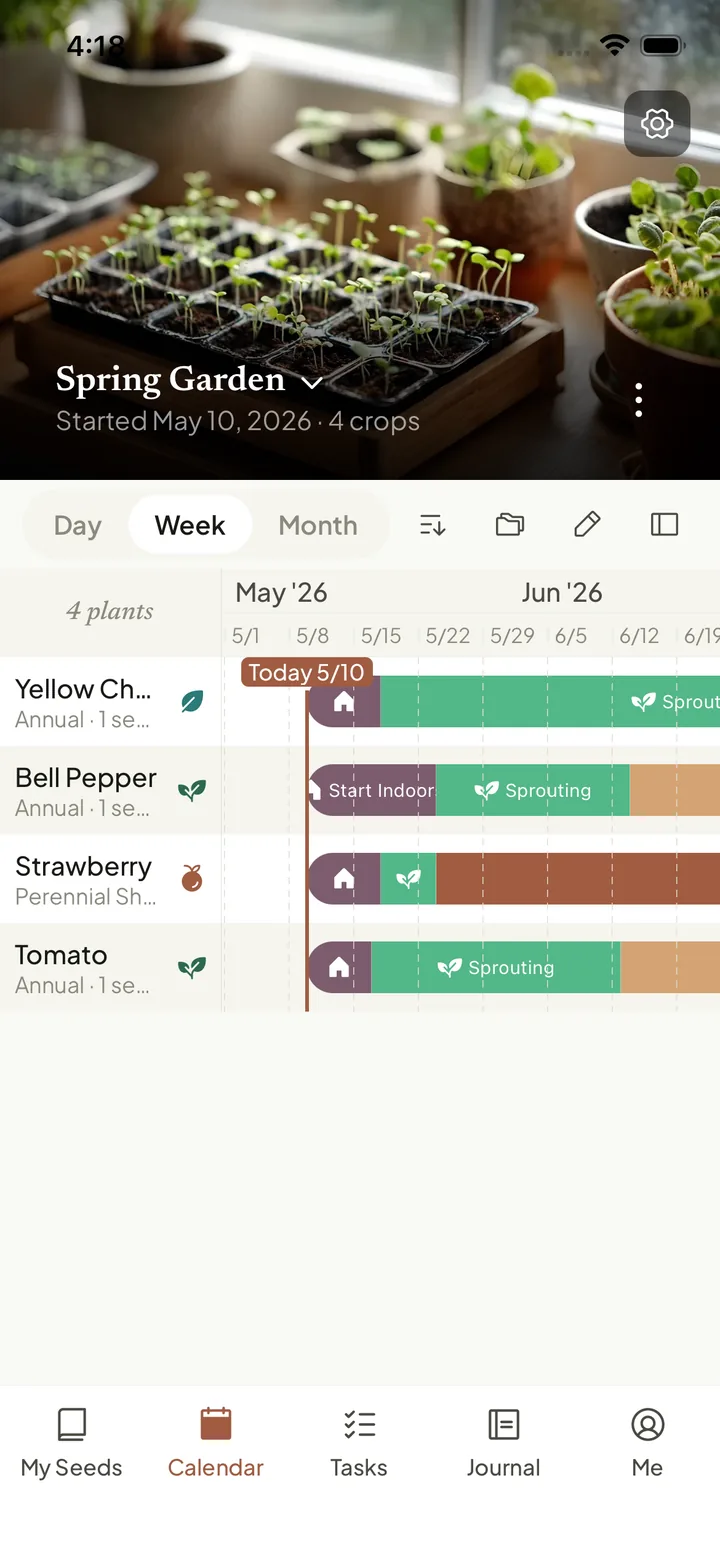
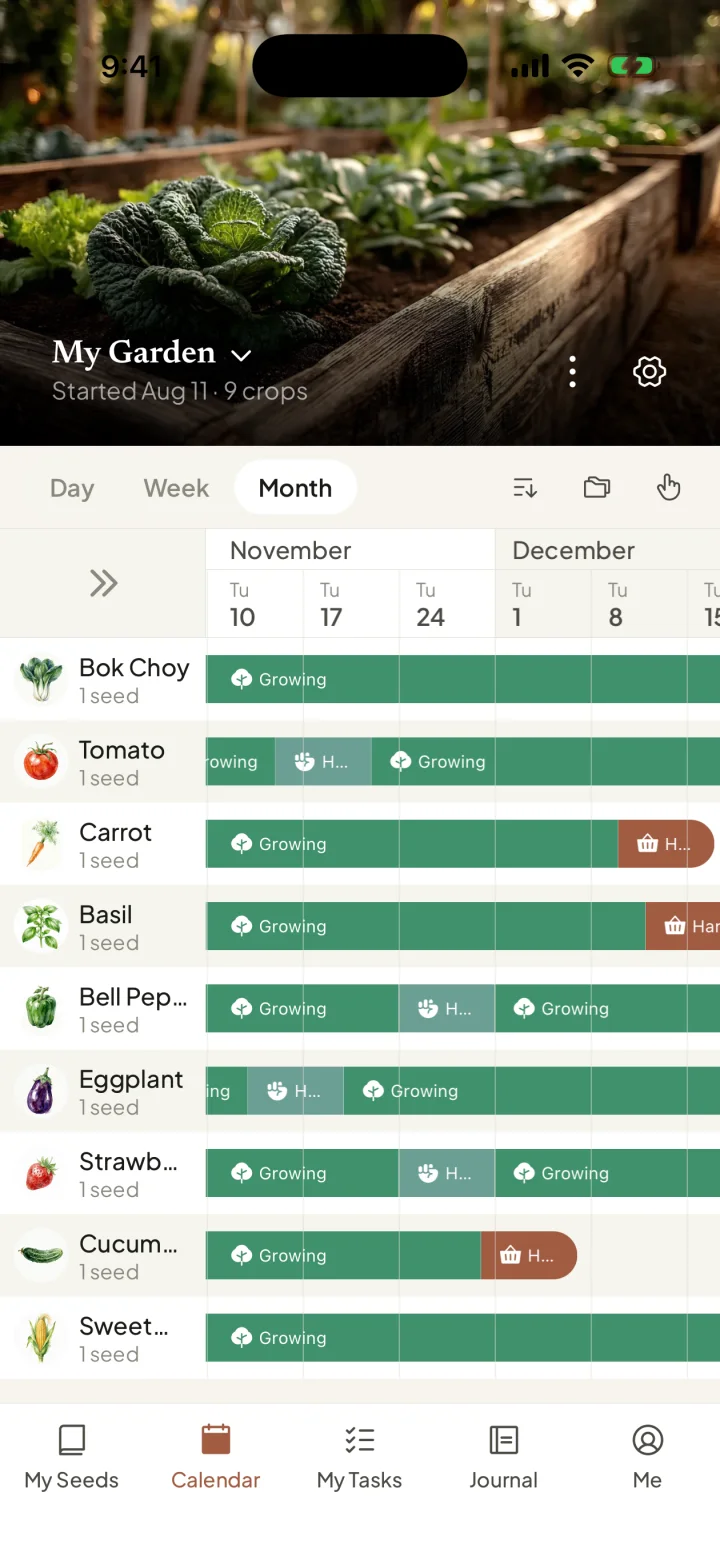
feat(myseedstory): show three current screens, with the AI guidance
Replaces the two phone screenshots with fresh ones from the simulator and
adds a third. The calendar now has nine crops and the plant images the app
shows in place of icons, and the new phone is the AI guidance for a growth
stage. The phones take seven of the twelve columns so all three fit, and
the description mentions the AI guidance.

diff --git a/src/components/MySeedStoryRoom.vue b/src/components/MySeedStoryRoom.vue
@@ -30,13 +30,13 @@ onUnmounted(() => {
       <figcaption class="px-6 pt-3 text-[14px] leading-snug sm:absolute sm:left-6 lg:left-14 sm:bottom-6 sm:px-4 sm:py-2 sm:rounded-full sm:bg-myseedstory-parch-warm sm:text-[15px]">The landing page is a clay garden you scroll through. <a href="https://myseedstory.co/mascot" target="_blank" rel="noopener noreferrer" class="font-medium underline underline-offset-4 decoration-myseedstory-clay decoration-2 hover:text-myseedstory-clay">Open it</a></figcaption>
     </figure>
     <div class="grid lg:grid-cols-12 gap-x-8 px-6 sm:px-10 lg:px-14 pt-8 lg:pt-12">
-      <div class="lg:col-span-6 pb-10 lg:pb-14">
+      <div class="lg:col-span-5 pb-10 lg:pb-14">
         <div class="flex items-center gap-4">
           <span class="app-icon w-14 h-14"><img src="/work/myseedstory/icon.webp" alt="" class="object-cover"></span>
           <h3 class="font-brand text-[2.1rem] font-bold tracking-[-0.02em] text-myseedstory-forest">MySeedStory</h3>
         </div>
         <p class="mt-6 text-xl leading-snug font-medium">A field guide for the seeds you save.</p>
-        <p class="mt-3 max-w-[30rem] leading-relaxed opacity-80">Scan a seed packet, plan your beds by frost date, and log every harvest. One Expo codebase for iOS and Android, a Fastify API on Postgres, an admin dashboard, and subscriptions through RevenueCat.</p>
+        <p class="mt-3 max-w-[30rem] leading-relaxed opacity-80">Scan a seed packet, plan your beds by frost date, ask the AI what each growth stage needs, and log every harvest. One Expo codebase for iOS and Android, a Fastify API on Postgres, an admin dashboard, and subscriptions through RevenueCat.</p>
         <dl class="mt-7 grid grid-cols-[5.5rem_1fr] gap-y-2 text-[15px]">
           <dt class="opacity-70">Role</dt><dd>Design, engineering and release</dd>
           <dt class="opacity-70">Platform</dt><dd>iOS and Android</dd>
@@ -53,9 +53,11 @@ onUnmounted(() => {
           <a href="https://myseedstory.co" target="_blank" rel="noopener noreferrer" class="px-4 py-2 rounded-full border border-myseedstory-forest/40 hover:bg-myseedstory-forest/5">myseedstory.co</a>
         </div>
       </div>
-      <div class="relative z-10 lg:col-span-6 flex justify-center lg:justify-end items-end lg:items-start gap-4 overflow-hidden lg:overflow-visible lg:-mt-24 lg:pb-14" aria-hidden="true">
-        <div class="phone w-[190px] sm:w-[240px] lg:w-[196px] xl:w-[240px] -mb-12 lg:mb-0"><img src="/work/myseedstory/seeds.webp" alt="" width="720" height="1558" loading="lazy" decoding="async"></div>
-        <div class="phone w-[190px] sm:w-[240px] lg:w-[196px] xl:w-[240px] mt-14 lg:mt-20 -mb-28 lg:mb-0"><img src="/work/myseedstory/calendar.webp" alt="" width="720" height="1558" loading="lazy" decoding="async"></div>
+      <!-- My Seeds, the planting calendar, and the AI guidance for a growth stage -->
+      <div class="relative z-10 lg:col-span-7 flex justify-center lg:justify-end items-end lg:items-start gap-3 xl:gap-4 overflow-hidden lg:overflow-visible lg:-mt-24 lg:pb-14" aria-hidden="true">
+        <div class="phone flex-none w-[150px] sm:w-[190px] lg:w-[150px] xl:w-[196px] mt-14 lg:mt-20 -mb-28 lg:mb-0"><img src="/work/myseedstory/seeds.webp" alt="" width="720" height="1564" loading="lazy" decoding="async"></div>
+        <div class="phone flex-none w-[150px] sm:w-[190px] lg:w-[150px] xl:w-[196px] -mb-12 lg:mb-0"><img src="/work/myseedstory/calendar.webp" alt="" width="720" height="1564" loading="lazy" decoding="async"></div>
+        <div class="phone flex-none w-[150px] sm:w-[190px] lg:w-[150px] xl:w-[196px] mt-14 lg:mt-20 -mb-28 lg:mb-0"><img src="/work/myseedstory/guidance.webp" alt="" width="720" height="1564" loading="lazy" decoding="async"></div>
       </div>
     </div>
   </article>
